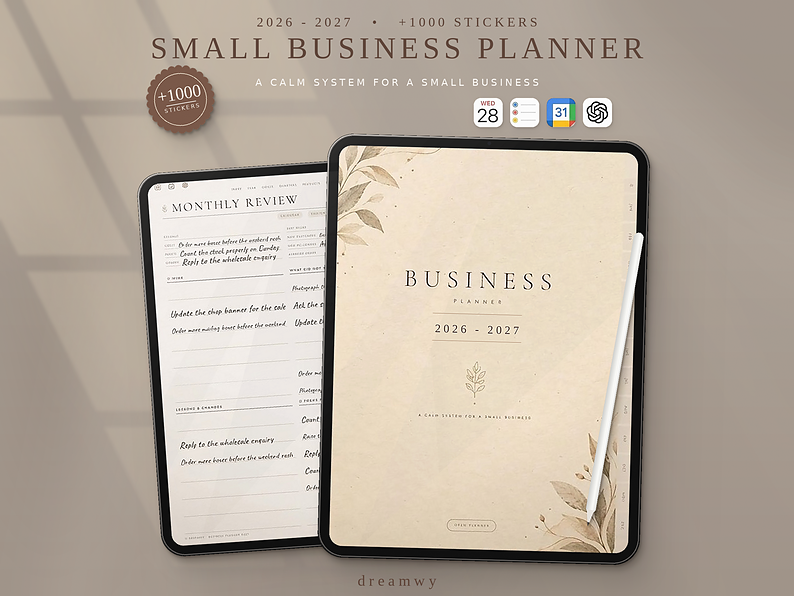
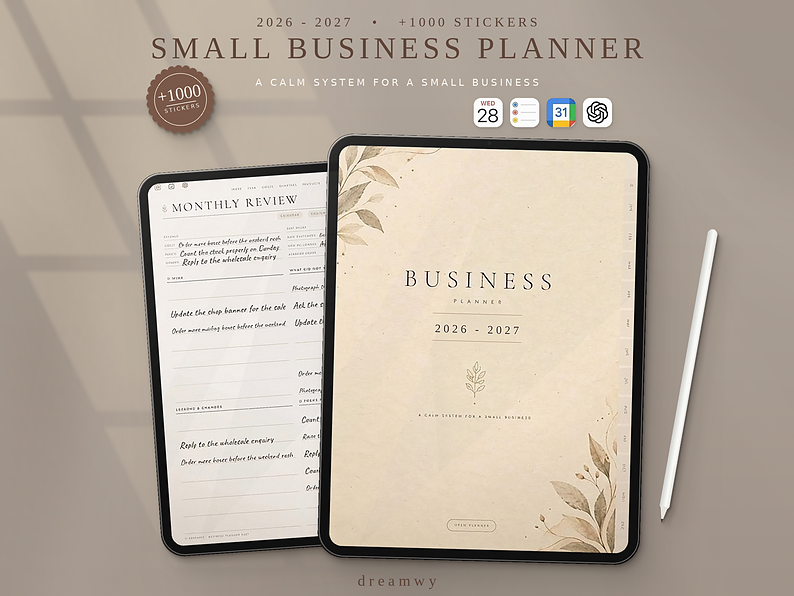
Business mockup: pencil lies beside the iPad
Claude-Session: https://claude.ai/code/session_015ZGVvYxuW9E1f2kNKHXQzt

Changed region(s): [[0.8161, 0.3926, 0.9068, 0.8758], [0.7254, 0.3926, 0.8161, 0.8758]]

diff --git a/mockup/make_business_mockup.py b/mockup/make_business_mockup.py
@@ -273,8 +273,8 @@ pd.polygon([(850, 4), (900, 15), (850, 26)], fill=(232, 228, 222, 255))
 pd.polygon([(888, 12), (900, 15), (888, 18)], fill=(60, 56, 54, 255))
 pd.rectangle((120, 5, 720, 7), fill=(255, 255, 255, 255))
 pen = pen.rotate(-100, expand=True, resample=Image.BICUBIC)
-drop(pen.split()[3], 1762, 700, [(36, 52, 22, .30), (14, 20, 7, .45), (4, 6, 3, .6)])
-canvas.alpha_composite(pen, (1762, 700))
+drop(pen.split()[3], 1985, 690, [(36, 52, 22, .30), (14, 20, 7, .45), (4, 6, 3, .6)])
+canvas.alpha_composite(pen, (1985, 690))
 
 
 # "+1000 STICKERS" seal
